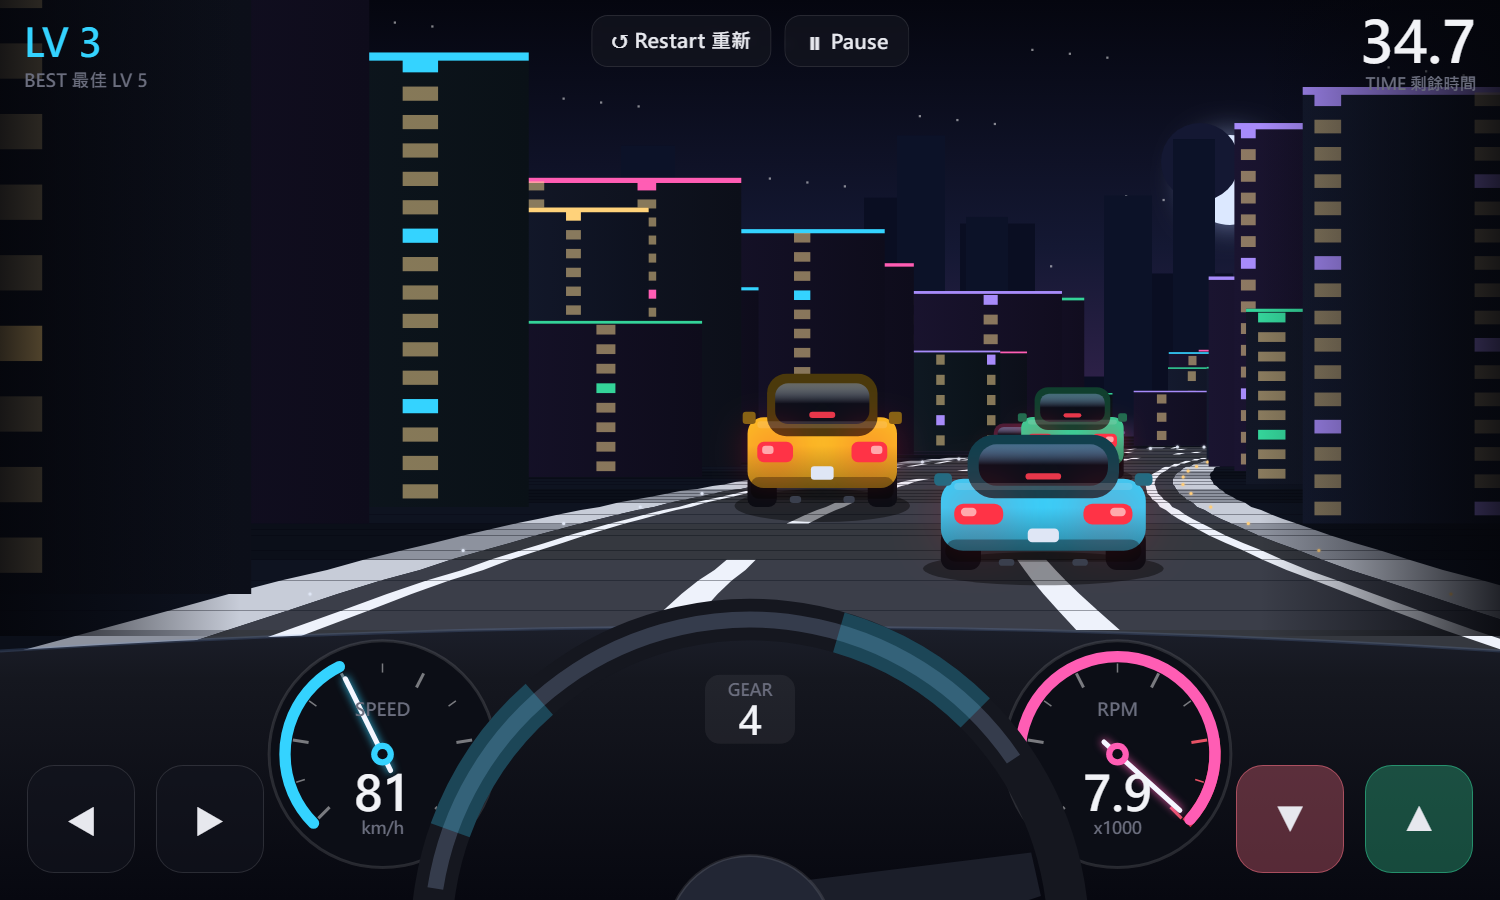
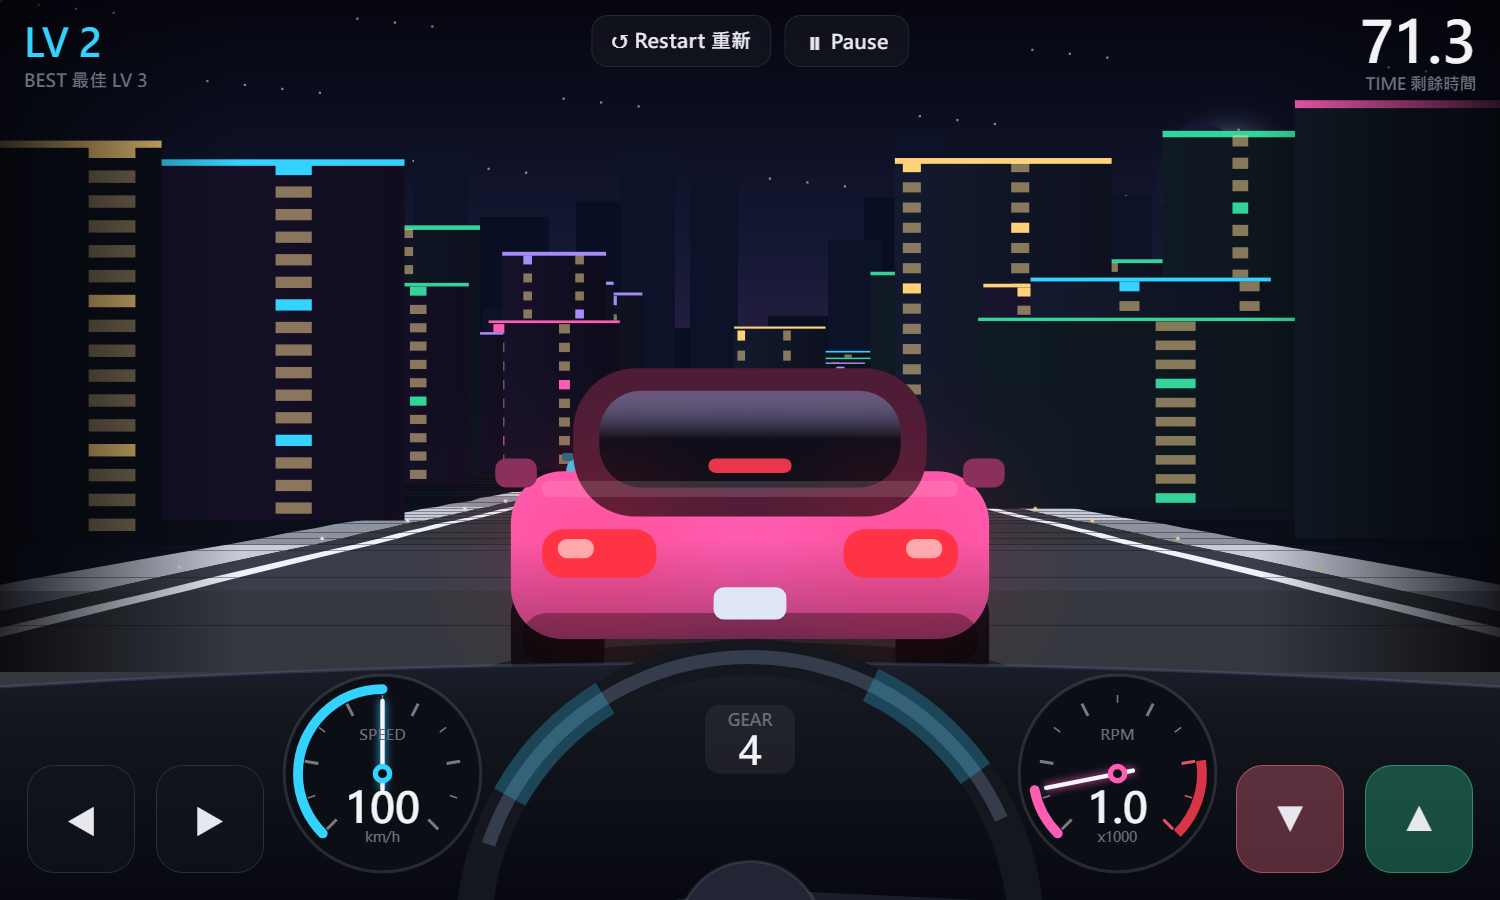
City Racer: lower view, building bounce, mobile fix, 200km/h, easier levels
Feedback fixes:
- Lower camera (1000 -> 720) and rest 2x further back on a collision so
  the car ahead's full rear is visible
- Hitting the roadside buildings/barrier now bounces you back in and
  brakes hard
- Mobile controls: capture the pointer and drop pointerleave so a held
  button doesn't cancel on finger drift and gas+steer don't interfere
- Top speed now reads 200 km/h on the dial (MAXSPEED = SEG*64)
- Levels are passable: the old loop was ~3600 segments (~62s even at a
  flat-out lap, longer than the limit). Shortened to ~1650 segments and
  relaxed the timer (L1 90s, -5/level, floor 45s)

diff --git a/city-racer/index.html b/city-racer/index.html
@@ -104,12 +104,12 @@ const view = $('#view'), ctx = view.getContext('2d');
 
 // ===== 1. CONFIG =====
 const SEG = 200, RUMBLE = 5, ROAD_W = 2000, LANES = 3;
-const DRAW = 240, FOV = 98, CAM_H = 1000;  // lower camera = a grounded, in-car eye level
+const DRAW = 240, FOV = 98, CAM_H = 720;   // low, in-car eye level (you see cars' full rear)
 const HZN = 0.50;                          // horizon position (fraction of height)
 const CENTRIFUGAL = 0.32;
 const CAR_W = ROAD_W * 0.52;
 const cameraDepth = 1 / Math.tan((FOV / 2) * Math.PI / 180);
-const MAXSPEED = SEG * 58;
+const MAXSPEED = SEG * 64;       // top speed (shows as 200 km/h on the dial)
 const ACCEL = MAXSPEED / 5, BRAKE = -MAXSPEED, DECEL = -MAXSPEED / 5;
 const OFF_DECEL = -MAXSPEED / 1.6, OFF_LIMIT = MAXSPEED / 3.2;
 const playerZ = CAM_H * cameraDepth;
@@ -130,7 +130,7 @@ let running = false, paused = false, cityOffset = 0;
 let W = 0, H = 0, dpr = 1, horizonY = 0;
 const input = { gas: 0, brake: 0, left: 0, right: 0 };
 bestLevel = +(localStorage.getItem('cityracer3d-level') || 0);
-function timeLimit(lv) { return Math.max(26, 58 - (lv - 1) * 4); }   // seconds to finish a level
+function timeLimit(lv) { return Math.max(45, 90 - (lv - 1) * 5); }   // seconds to finish a level (generous)
 
 // ===== 3. HELPERS =====
 function lastY() { return segments.length === 0 ? 0 : segments[segments.length - 1].p2.world.y; }
@@ -188,9 +188,8 @@ function makeBuilding() {
 }
 function buildTrack() {
   segments = [];
-  straight(LEN.S); curve(LEN.M, CRV.M, HILL.L); curve(LEN.L, CRV.H, HILL.M); hill(LEN.M, HILL.H);
-  sCurves(); straight(LEN.M); curve(LEN.L, -CRV.H, -HILL.M); curve(LEN.M, -CRV.M, HILL.H);
-  hill(LEN.L, -HILL.H); straight(LEN.S); sCurves(); curve(LEN.L, CRV.H, HILL.M); straight(LEN.M);
+  straight(LEN.S); curve(LEN.M, CRV.M, HILL.L); curve(LEN.M, -CRV.H, HILL.M); hill(LEN.M, HILL.H);
+  sCurves(); straight(LEN.M); curve(LEN.M, -CRV.M, -HILL.M); straight(LEN.S);
   for (let i = 0; i < RUMBLE; i++) segments[i].color = START;
   for (let i = 1; i <= RUMBLE; i++) segments[segments.length - i].color = FINISH;
   // line the road with city buildings
@@ -259,13 +258,18 @@ function update(dt) {
   else                  speed += DECEL * dt;
   if ((playerX < -1 || playerX > 1) && speed > OFF_LIMIT) speed += OFF_DECEL * dt;
 
+  // hit the roadside buildings/barrier -> bounce back in and brake hard
+  const WALL = 1.9;
+  if (playerX < -WALL) { playerX = -WALL + 0.18; speed *= 0.4; }
+  else if (playerX > WALL) { playerX = WALL - 0.18; speed *= 0.4; }
+
   playerX = Math.max(-2.4, Math.min(2.4, playerX));
   speed = Math.max(0, Math.min(speed, MAXSPEED));
 
   if (speed > 0) for (const car of playerSeg.cars) {
     if (speed > car.speed && overlap(playerX, CAR_W / ROAD_W, car.offset, CAR_W / ROAD_W, 0.85)) {
       speed = car.speed * (car.speed / speed);
-      position = increase(car.z, -playerZ, trackLength); break;
+      position = increase(car.z, -playerZ * 2, trackLength); break;  // stop well behind so its whole rear shows
     }
   }
 
@@ -480,7 +484,7 @@ function drawTraffic(segScreen, car, clipY) {
 
 // ===== 9. COCKPIT (dashboard + gauges + wheel) =====
 function drawCockpit() {
-  const dashTop = H * 0.70;
+  const dashTop = H * 0.74;
   const dashH = H - dashTop;
 
   // soft A-pillar shadows framing the windshield
@@ -506,7 +510,7 @@ function drawCockpit() {
   // gauges flank the wheel
   const gaugeR = Math.min(dashH * 0.42, W * 0.12);
   const gy = dashTop + dashH * 0.46;
-  const kmh = speed / 95;
+  const kmh = speed / (MAXSPEED / 200);   // dial tops out at 200 km/h
   const spd = speed / MAXSPEED;
   const gear = speed < 1 ? 'N' : Math.min(6, 1 + Math.floor(spd * 6));
   const rpm = speed < 1 ? 900 : 1000 + ((spd * 6) % 1) * 7200;
@@ -687,9 +691,17 @@ addEventListener('keyup', e => { const k = keymap[e.key]; if (k) { input[k] = 0;
 
 function hold(sel, key) {
   const el = $(sel);
-  const on = e => { e.preventDefault(); input[key] = 1; }, off = e => { e.preventDefault(); input[key] = 0; };
+  // capture the pointer so a held button keeps firing even if the finger drifts,
+  // and so gas + steering on two fingers don't cancel each other (no pointerleave).
+  const on = e => {
+    e.preventDefault();
+    input[key] = 1;
+    try { el.setPointerCapture(e.pointerId); } catch (err) {}
+  };
+  const off = e => { e.preventDefault(); input[key] = 0; };
   el.addEventListener('pointerdown', on);
-  ['pointerup', 'pointercancel', 'pointerleave'].forEach(ev => el.addEventListener(ev, off));
+  el.addEventListener('pointerup', off);
+  el.addEventListener('pointercancel', off);
 }
 hold('#bGas', 'gas'); hold('#bBrake', 'brake'); hold('#bLeft', 'left'); hold('#bRight', 'right');
 

diff --git a/city-racer/README.md b/city-racer/README.md
@@ -50,9 +50,9 @@ Open `index.html` in a text editor and find the **CONFIG** block near the
 top of the `<script>`. 打開 `index.html`，找到 `<script>` 上方的 **CONFIG** 區塊。
 
 ```js
-const MAXSPEED = SEG * 58;     // top speed 極速
+const MAXSPEED = SEG * 64;     // top speed — shows as 200 km/h 極速
 const CENTRIFUGAL = 0.32;      // how hard curves push you out 彎道甩出力
-const CAM_H = 1500;            // camera height 視角高度
+const CAM_H = 720;             // camera height (lower = more in-car) 視角高度
 const FOV = 98;                // field of view 視野廣度
 ```
 